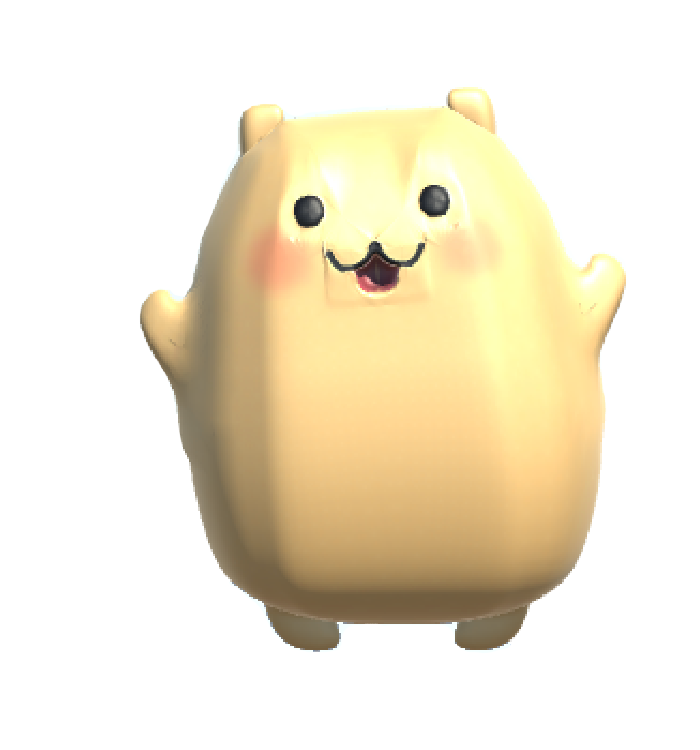
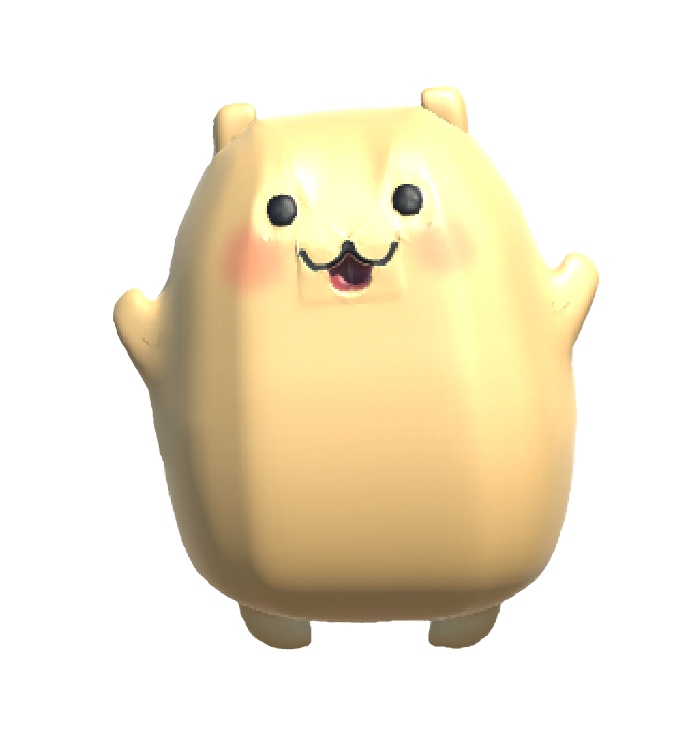
Change モイちゃんのpng更新

Changed region(s): [[0.15, 0.092, 0.9, 0.8893]]

diff --git a/src/Pages/ChildComponent.css b/src/Pages/ChildComponent.css
@@ -1,3 +1,6 @@
+img {
+  max-width: 90%;
+}
 .Child {
   text-align: center;
   background-color: #000000;
